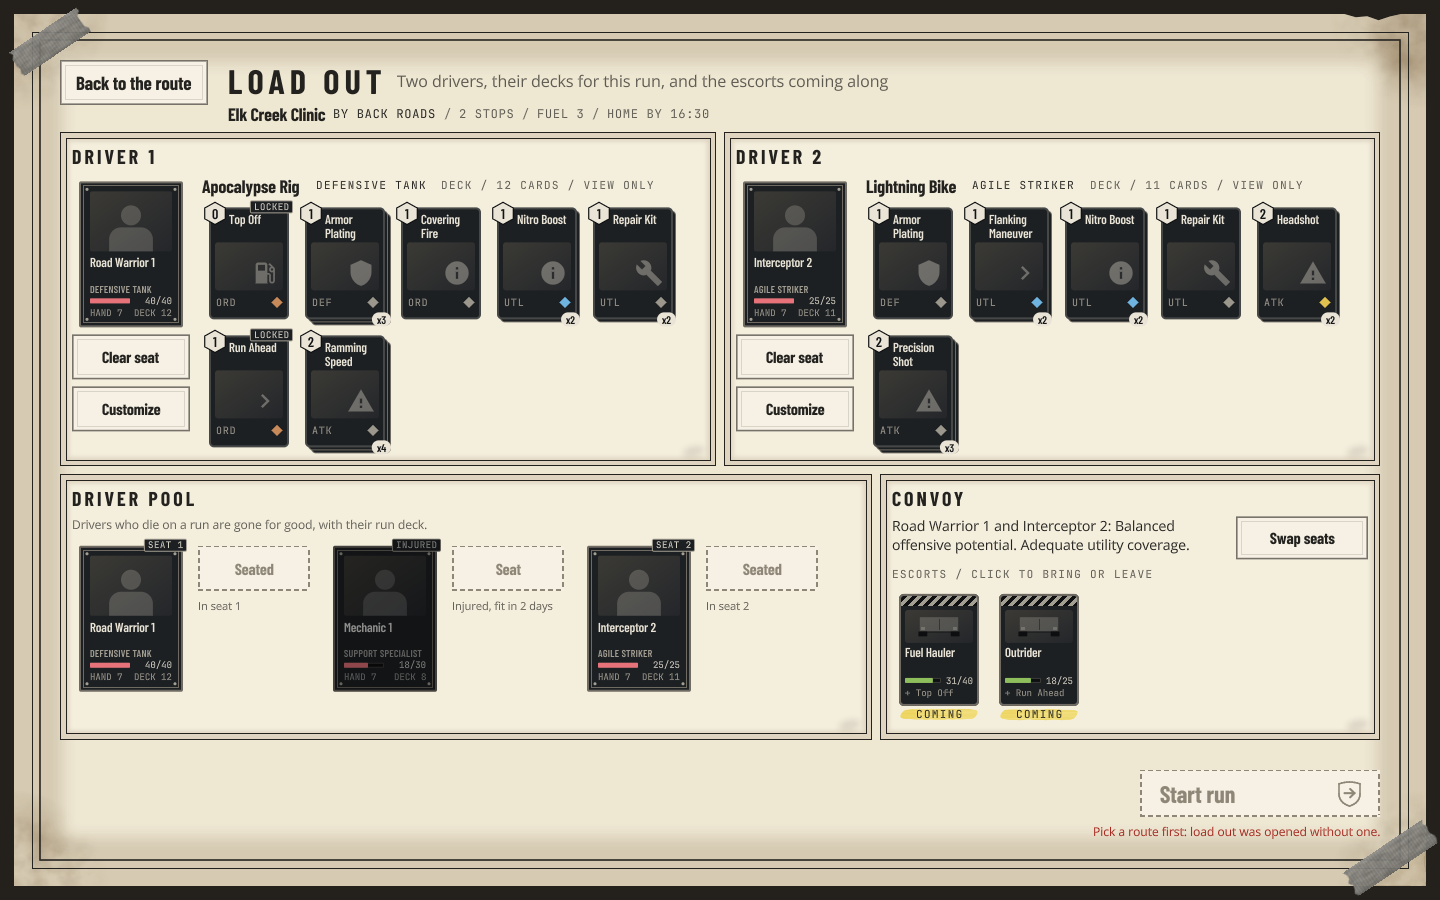
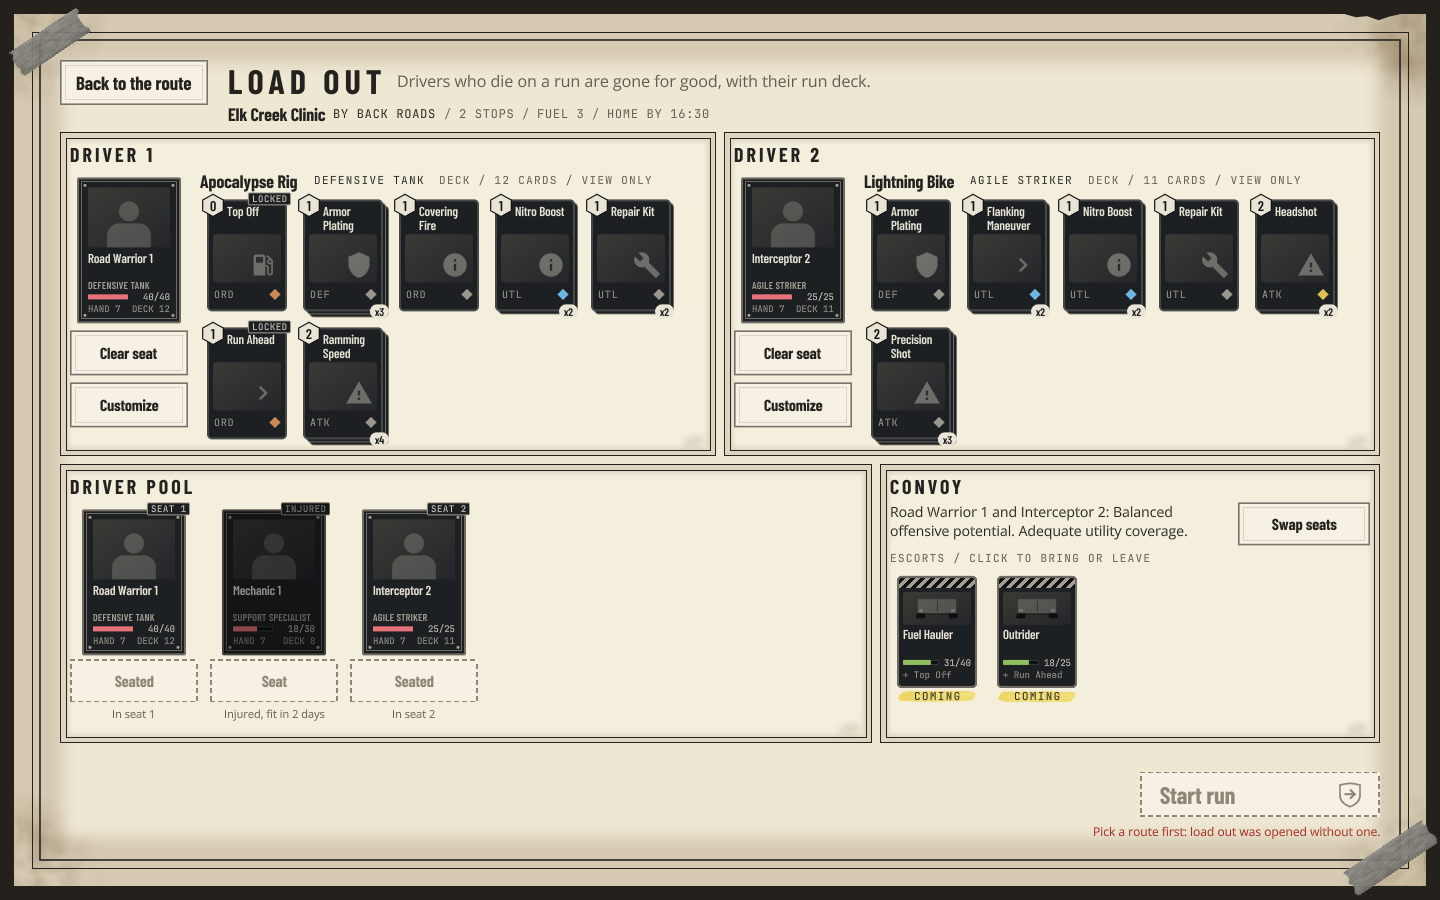
Put Seat and the state line under each pool card (DDB-518)
The pool lines up as the Crew roster does, so a row holds more drivers.
The pool's note moves up to the title's subtitle and the boxes tighten a
little to keep everything on the sheet at 1440x882; the decks now hold
three columns at 1024.

diff --git a/src/renderer/game/screens/load-out/LoadOutScreen.ts b/src/renderer/game/screens/load-out/LoadOutScreen.ts
@@ -38,7 +38,6 @@ import {
 	ESCORT_CAPTION,
 	ESCORT_COMING,
 	ESCORT_STAYING,
-	LOAD_OUT_SUBTITLE,
 	NO_ROUTE_PICKED,
 	SOLO_SEAT,
 	STRANDED_LOAD_OUT,
@@ -57,24 +56,24 @@ const { space, fontSize } = tokens;
 /** Between the header, the boxes, and the foot, and between the boxes. */
 const GAP = space.space_2;
 /** The boxes run close to their cards, so their padding is the spec's least less a little. */
-const BOX_PADDING = space.space_3;
-const BOX_GAP = space.space_1_5;
+const BOX_PADDING = 10;
+const BOX_GAP = space.space_1;
 /** A seat's vehicle, role, and deck caption share a line where the box is wide enough, each this tall. */
-const NAMED_LINE = 22;
+const NAMED_LINE = 20;
 /** The word under an escort card that the highlighter marks when it's coming along. */
 const ESCORT_LABEL = { size: ATLAS.captionSize + 1, line: 13 } as const;
 /** A seat's left column: the driver card, then Clear seat and Customize under it. */
 const SEAT_COLUMN_WIDTH = DRIVER_CARD_SIZE.width + DRIVER_CARD_INK * 2;
 /** Back roads in a seat or under a pool card sit at a smaller label, to fit a card's width. */
 const SMALL_LABEL = 16;
-/** A pool entry: the card, and beside it Seat over up to three lines of why they can't go. */
-const POOL_ENTRY = { side: 112, reasonSize: fontSize.fs_xs, reasonLine: 15, reasonLines: 3 } as const;
+/** A pool entry, as the Crew screen's roster sets one: the card, Seat under it, and two lines for why they can't go ("Same archetype as a seated driver"). */
+const POOL_ENTRY = { width: 128, reasonSize: fontSize.fs_xs, reasonLine: 13, reasonLines: 2 } as const;
 /** Wide enough for the synergy beside Swap seats in two lines, and four escorts abreast, the most a convoy has. */
 const CONVOY_WIDTH = 500;
 const SWAP_WIDTH = 132;
 /** Start run: the highway, pinned to the sheet's bottom right with its line under it. */
 const START_WIDTH = 240;
-const START_HEIGHT = 50;
+const START_HEIGHT = 48;
 const GO_WIDTH = 620;
 const CARDS_LOADING = 'Loading the cards.';
 const CARDS_FAILED = "The cards couldn't be loaded.";
@@ -159,7 +158,7 @@ interface DeckMini {
 	state: MiniCardState | null;
 }
 
-/** A pool driver's card, and beside it Seat and why they can't go. */
+/** A pool driver's card, with Seat and why they can't go under it. */
 class PoolEntry extends Stack {
 	public readonly card: DriverCard;
 	public readonly seatButton: AtlasButton;
@@ -167,26 +166,25 @@ class PoolEntry extends Stack {
 	public inspectable = false;
 
 	constructor({ id }: { id: string }) {
-		super({ id, direction: 'horizontal', gap: space.space_2 });
+		super({ id, width: POOL_ENTRY.width, crossAlign: 'stretch', gap: space.space_1 });
 		this.card = new DriverCard({ id: `${id}_card`, data: driverCardData({ archetype: 'road_warrior' }) });
 		this.card.focusable = true;
-		this.card.margin = DRIVER_CARD_INK;
-		const side = new Stack({ id: `${id}_side`, width: POOL_ENTRY.side, crossAlign: 'stretch', gap: space.space_1_5, margin: { top: DRIVER_CARD_INK } });
-		this.seatButton = new AtlasButton({ id: `${id}_seat_button`, label: 'Seat', labelSize: SMALL_LABEL, block: true });
+		this.card.alignSelf = 'center';
+		this.card.margin = { top: DRIVER_CARD_INK, bottom: 0 };
+		this.seatButton = new AtlasButton({ id: `${id}_seat_button`, label: 'Seat', labelSize: SMALL_LABEL, height: ATLAS.minHit, block: true });
 		this.reason = new Text({
 			id: `${id}_reason`,
 			height: POOL_ENTRY.reasonLine * POOL_ENTRY.reasonLines,
 			widthMode: 'fill',
-			style: { fontSize: POOL_ENTRY.reasonSize, color: 'text_dim' },
+			style: { fontSize: POOL_ENTRY.reasonSize, color: 'text_dim', textAlign: 'center' },
 			lineHeight: POOL_ENTRY.reasonLine / POOL_ENTRY.reasonSize,
 			verticalAlign: 'top',
 			wrap: 'word',
 			textOverflow: 'ellipsis',
 		});
-		side.addChild(this.seatButton);
-		side.addChild(this.reason);
 		this.addChild(this.card);
-		this.addChild(side);
+		this.addChild(this.seatButton);
+		this.addChild(this.reason);
 	}
 }
 
@@ -391,7 +389,7 @@ export class LoadOutScreen extends Screen {
 		heading.addChild(new PageTitle({
 			id: 'load_out_heading',
 			title: 'Load out',
-			subtitle: LOAD_OUT_SUBTITLE,
+			subtitle: POOL_NOTE,
 			titleId: 'load_out_title',
 			subtitleId: 'load_out_kicker',
 		}));
@@ -458,9 +456,9 @@ export class LoadOutScreen extends Screen {
 		for (const child of [card, clear, customize]) column.addChild(child);
 		body.addChild(column);
 
-		const deckColumn = new Stack({ id: `${id}_deck_column`, widthMode: 'fill', crossAlign: 'stretch', gap: space.space_1 });
+		const deckColumn = new Stack({ id: `${id}_deck_column`, widthMode: 'fill', crossAlign: 'stretch', gap: space.space_0_5 });
 		const named = new FlowWrap({ id: `${id}_named`, gap: space.space_4, rowGap: 0 });
-		const vehicle = new Text({ id: `${id}_vehicle`, height: NAMED_LINE, verticalAlign: 'middle', style: { fontRole: 'display', fontWeight: 700, fontSize: 18, color: 'text' }, wrap: 'none' });
+		const vehicle = new Text({ id: `${id}_vehicle`, height: NAMED_LINE, lineHeight: NAMED_LINE / 18, verticalAlign: 'middle', style: { fontRole: 'display', fontWeight: 700, fontSize: 18, color: 'text' }, wrap: 'none' });
 		const role = new Text({ id: `${id}_role`, height: NAMED_LINE, verticalAlign: 'middle', style: { ...MONO_CAPTION, fontWeight: 500, color: 'text' }, wrap: 'none' });
 		const caption = new Text({ id: `${id}_deck_caption`, height: NAMED_LINE, verticalAlign: 'middle', style: MONO_CAPTION, wrap: 'none' });
 		for (const child of [vehicle, role, caption]) named.addChild(child);
@@ -477,8 +475,7 @@ export class LoadOutScreen extends Screen {
 
 	private createPool(): LegendBox {
 		const panel = new LegendBox({ id: 'load_out_pool_panel', title: 'Driver pool', padding: BOX_PADDING, gap: BOX_GAP, widthMode: 'fill', crossAlign: 'stretch' });
-		panel.addChild(new Text({ id: 'load_out_pool_note', text: POOL_NOTE, widthMode: 'fill', style: { fontSize: 'fs_sm', color: 'text_dim' } }));
-		this.pool = new FlowWrap({ id: 'load_out_pool', gap: space.space_4, rowGap: space.space_2, focusGroup: { orientation: 'horizontal' } });
+		this.pool = new FlowWrap({ id: 'load_out_pool', gap: space.space_3, rowGap: space.space_2, focusGroup: { orientation: 'horizontal' } });
 		inspectOnContextMenu(this.pool);
 		panel.addChild(this.pool);
 		return panel;

diff --git a/src/renderer/game/screens/load-out/LoadOutScreen.test.ts b/src/renderer/game/screens/load-out/LoadOutScreen.test.ts
@@ -240,11 +240,20 @@ describe('LoadOutScreen (DDB-320)', () => {
 			expect(bounds('load_out_seat_1_panel').y).toBeGreaterThan(bounds('load_out_destination').y);
 			expect(bounds('load_out_pool_panel').y).toBeGreaterThan(bounds('load_out_seat_1_panel').y + bounds('load_out_seat_1_panel').height);
 			expect(bounds('load_out_convoy_panel').y).toBe(bounds('load_out_pool_panel').y);
+			// The pool lines up as the Crew roster does: each card with Seat and its state under it, the cards on one row.
+			const [driver] = screen.plan?.pool ?? [];
+			const card = bounds(`load_out_pool_${driver.id}_card`);
+			const seat = bounds(`load_out_pool_${driver.id}_seat_button`);
+			expect(seat.y).toBeGreaterThan(card.y + card.height);
+			expect(seat.x).toBeLessThanOrEqual(card.x);
+			expect(bounds(`load_out_pool_${driver.id}_reason`).y).toBeGreaterThan(seat.y);
+			const entries = find<FlowWrap>('load_out_pool').children;
+			expect(new Set(entries.map((entry) => entry.screenBounds.y)).size).toBe(1);
 		});
 
 		it('reflows at 1024 x 600: fewer columns in each deck, the body scrolling, Start run still in view at the bottom right', async () => {
 			await openMeasured({ width: 1024, height: 600 });
-			expect([firstRow(1), firstRow(2)]).toEqual([2, 2]);
+			expect([firstRow(1), firstRow(2)]).toEqual([3, 3]);
 			expect(find<ScrollContainer>('load_out_scroll').overflows).toBe(true);
 			const start = bounds('load_out_start_button');
 			const line = bounds('load_out_summary_line');

diff --git a/src/renderer/game/screens/load-out/loadOutText.ts b/src/renderer/game/screens/load-out/loadOutText.ts
@@ -9,13 +9,10 @@ import { countOf } from '../main-menu/campaignText';
 import type { LoadOutPlan, PoolStanding, StartBlocker } from './LoadOutPlan';
 import type { LoadOutTrip } from './LoadOutScreen';
 
-/** Beside the title. */
-export const LOAD_OUT_SUBTITLE = 'Two drivers, their decks for this run, and the escorts coming along';
-
 /** In the route line's place when load out was opened without a route. */
 export const NO_ROUTE_PICKED = 'No route picked';
 
-/** Under the pool's title, from the wireframe. */
+/** Beside the title, from the pool's note in the wireframe. */
 export const POOL_NOTE = 'Drivers who die on a run are gone for good, with their run deck.';
 
 /** Over the escorts. */
